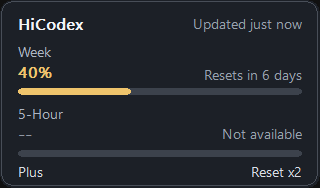
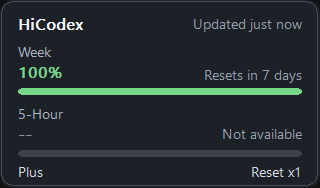
Update v0.3.0 screenshots

diff --git a/README.md b/README.md
@@ -13,9 +13,13 @@ HiCodex is a lightweight, unofficial Windows taskbar meter for Codex limits with
 **[下载最新版 / Download latest](../../releases/latest)**
 
 <p align="center">
-  <img src="assets/screenshots/taskbar.png" alt="HiCodex taskbar display" width="392">
-  <br><br>
+  <img src="assets/screenshots/taskbar.png" alt="HiCodex taskbar display" width="219">
+</p>
+
+<p align="center">
   <img src="assets/screenshots/flyout.png" alt="HiCodex hover details" width="320">
+  &nbsp;&nbsp;
+  <img src="assets/screenshots/menu.png" alt="HiCodex right-click menu" width="229">
 </p>
 
 ---
